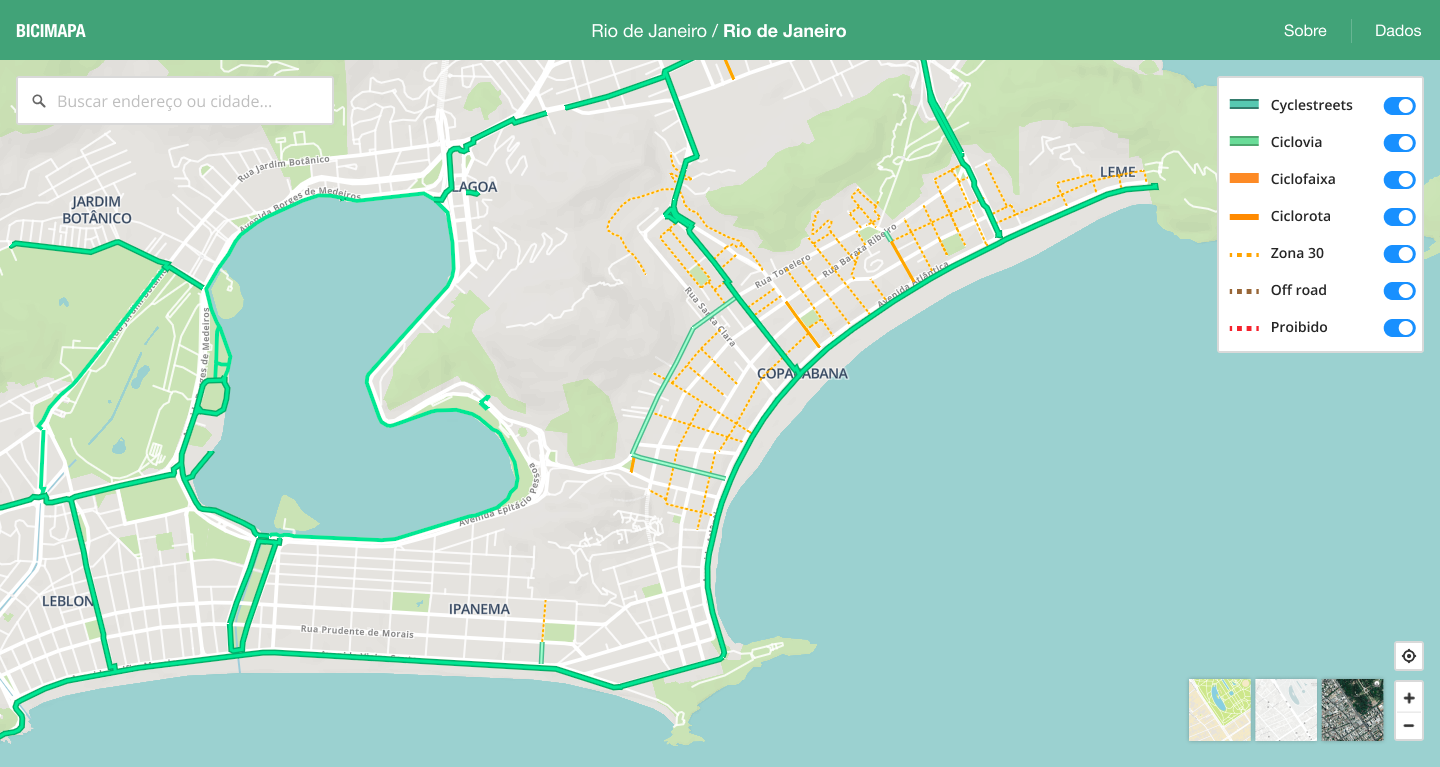
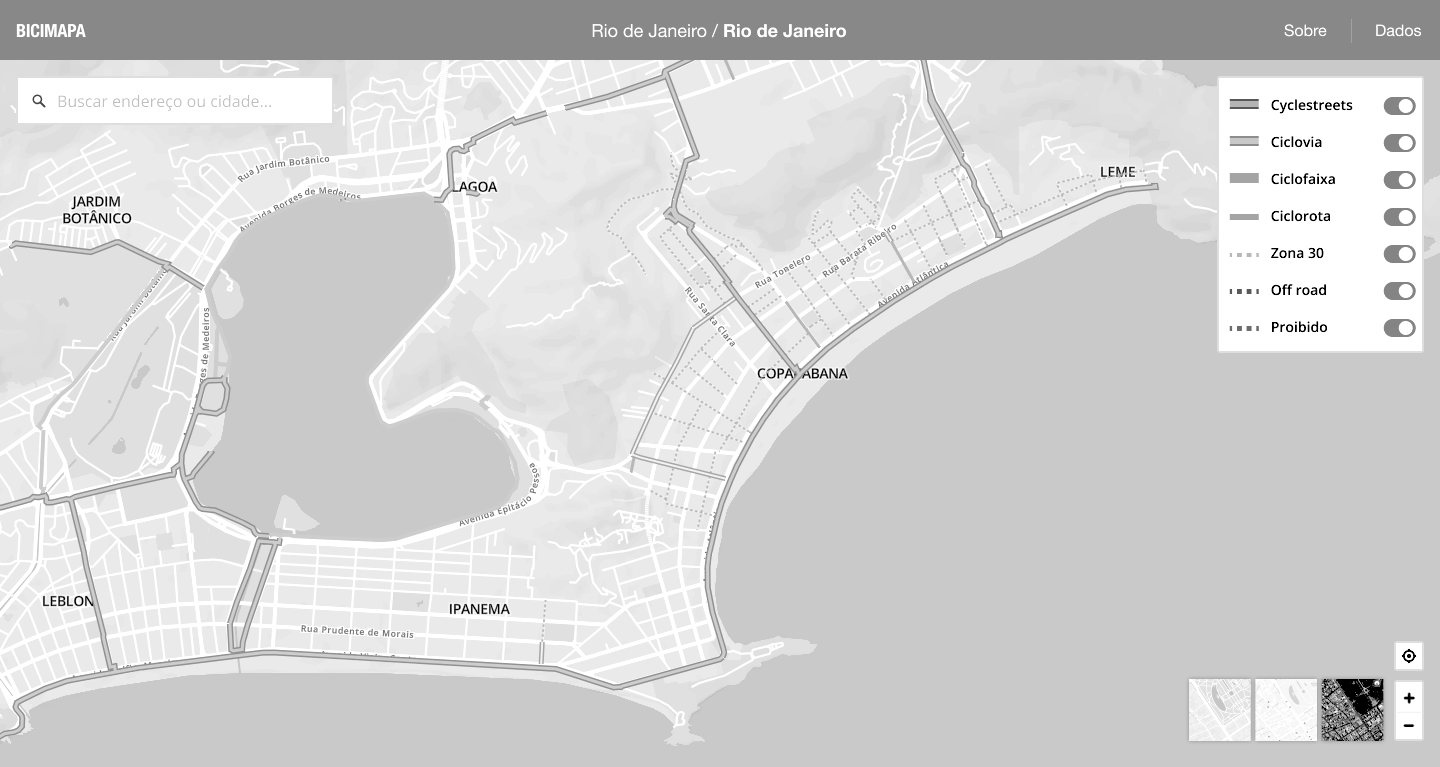
WIP

diff --git a/src/pages/ciclomapa/index.md b/src/pages/ciclomapa/index.md
@@ -5,16 +5,16 @@ date2: "Now"
 title: "CicloMapa"
 minibio: "An open platform to democratize access to bike maps of brazilian cities."
 description: "An open platform to democratize access to bike maps of brazilian cities, combining the collaborative power of OpenStreetMaps with web technologies and easy-to-use design."
-tags: ['design','front-end','product management','branding']
+tags: ['design','front-end','product management']
 cover: './cover.png'
 ---
 
 
 # Overview
 
-Today in Brazil we face a big challenge of not having data on the cycling infrastructure available in our cities. This makes it very hard to paint a clear picture of our reality and calculate the relevant metrics to measure the opportunities and impacts to society of improving urban mobility. The most common problems are data not being standardized, making it hard to compare between localities, data not being available publicly or sometimes it not existing at all.
+Today in Brazil we face a big challenge of not having data on the cycling infrastructure available in our cities. This makes it very hard to paint a clear picture of our reality and calculate the relevant metrics to measure the opportunities and impacts to society of improving urban mobility.
 
-I've teamed up with two important civil society organizations on cycling and urban mobility to design and developed the first cycling maps platform encompassing all Brazilian cities. We've leveraged the data and collaborativeness of OpenStreetMap (OSM), the Wikipedia of maps. I've created an open-source web application, free and accessible from any computer or smartphone, aimed at both the average citizen who wants to know more about their city, and researchers, who now have easy access to data without needing OSM knowledge.
+I've teamed up with two important brazilian civil society organizations on cycling and urban mobility to design and developed the first cycling maps platform encompassing all Brazilian cities. We've leveraged the data and collaborativeness of OpenStreetMap (OSM), the Wikipedia of maps. I've created an open-source web application, free and accessible from any computer or smartphone, aimed at both the average citizen who wants to know more about their city, and researchers, who now have easy access to data without needing OSM knowledge.
 
 The first version of this platform is already on production but we consider it to be a first prototype and we have lots of ideas to develop it even further in the future.
 
@@ -23,14 +23,14 @@ The first version of this platform is already on production but we consider it t
 
 ## Kick off
 
-UCB (Brazil Cyclists Union) and ITDP (Transport and Development Policy Institute) are two civil society organizations that have joined forces to solve once and for all the problem of access to data on Brazil's cycling infrastructure. As the main stakeholders of the project my first activity was conducting a workshop using the Lean Canvas framework so we could make sure we were aligned on what we were going to build.
+UCB (Brazil Cyclists Union) and ITDP (Transport and Development Policy Institute) are two civil society organizations that have joined forces to solve once and for all the problem of access to data on Brazil's cycling infrastructure. As the main stakeholders of the project my first activity was conducting a workshop using the Lean Canvas framework so we could make sure we were aligned on what we were going to build. Below I highlight some of the main insights.
 
 
 ```grid|1
 ![](./leancanvas.jpg)
 ```
-
-The main problems we wanted to solve was: 
+ 
+The main problems we wanted to solve were: 
 
 * The lack of centralized, standardized and updated bike maps of brazilian cities.
 * OpenStreetMaps contributors found disencouraging that there wasn't good applications that reuse its data.
@@ -44,7 +44,9 @@ Everything went well except the Customer Segments part, which was the most polem
 
 ## Research
 
-One of the first steps was to understand OSM data about cycling structures. Fortunately we had on the team a specialist on OSM, but still we had to go through lots of documentations and lengthy (but healthy) discussions on how we'd interpret them. The main thing is that OSM is very objective, and the way it tags its entities are quite granular and details. We, however, wanted to abstract all this complexity to the end users, while at the same time educating on how good the different types of cycling structures are to the cyclists.
+One of the first steps was to understand OSM data about cycling structures. Fortunately we had on the team a specialist on OSM, but still we had to go through lots of documentations and lengthy (but healthy) discussions on how we'd interpret them.
+
+The main challenge is that OSM is very objective: the way it tags entities is very detailed, granular and often technical. We, however, wanted to abstract this complexity to our end users, while at the same time educating on how good the different types of cycling structures are to the cyclists using a colored rank that went from green to red.
 
 ```grid|1
 ![](./layers.png "Documenting how the data would be modeled and the information would be shown to the users, including: labels, textual descriptions and visual representations of data. I find spreadsheets to be a very powerful prototyping tool that is often overlooked by designers.")
@@ -52,16 +54,27 @@ One of the first steps was to understand OSM data about cycling structures. Fort
 
 An important part at this step as well was to understand what other similar tools were available "on the market". I documented this on a simple Google Docs were I included main screenshots, a general and personal rating and some comments on the positives and negatives.
 
-At this step we validated that our solution was innovative, since there wasn't any other like this, but there were many intersections with existing tools.
+At this step we validated that our solution was innovative, since there wasn't any other like this, but there were many intersections with existing tools that gave us inspiration and new ideads to solve the problems.
 
-```grid|1
-![](./bench.png)
-```
+<jumbo caption="Documentation of the benchmark research looking for similar digital tools as well as official bike maps from cities around the world.">
+    <img src="./bench.png"/>
+</jumbo>
+ 
+
+Our main insights were:
+
+* Solutions based on OSM are very technical and hard to understand and operate, and none had clear instructions about the collaborativeness dimension and how to contribute with the mapping.
+* Bike maps rarely explain their terminologies.
+* When multiple typologies are offered colors are often random, producing a final result that is not only unappealing but, most importantly, confusing and overwhelming.
+* Almost none of them were responsive and accessible via smartphones.
+* Several local initiatives had interesting features but couldn't be easily reused for other cities.
 
 # Prototyping
 
+Extending the benchmarking research now I started looking at more broad inspirations of webapps that had some relation with maps or data visualization.
+
 ```grid|1
-![](./references.png "Research of visual references of webapps based on maps and data.")
+![](./references.png)
 ```
 
 With the references in mind and the typologies well defined I started sketching different ways we could lay out these feature in the screen. The concept always was to have the map as the main thing. Second came the current city in focus, and third the complementay UI elements to control the map such as typology filters, address search field, "about" link and the data download button.
@@ -71,7 +84,7 @@ With the references in mind and the typologies well defined I started sketching 
 ```
 
 
-# Executing
+# Implementing
 
 The entire development was done by me. It's always a challenge to separate the engineering and design mindsets in the process, so I forced myself to always ideate on Figma first, validating with the peers and only then creating cards on Trello to document the task and prioritize it.
 
@@ -85,26 +98,35 @@ The overall system architecture passed by 2 iterations. The first one, way simpl
 ![](./arch.png "Iterating on the system architecture.")
 ```
 
+To build the UI I chose the amazing [Ant Design](https://ant.design/) components, which was one of my main inspirations of Design Systems and I always wanted to try it in a real project. Their React components are super high quality and have great documentation.
 
-# Branding
+```grid|1
+![](./ant.png "Ant Design is a design system with values of Nature and Determinacy for better user experience of enterprise applications. (https://ant.design)")
+``` 
+ 
 
-With a very functional first version of the system up and running before the schedule I found myself with some extra time to MAKE IT POP. Based on all the process up to now I've devised some brand principles to start thinking on the more graphical part of the project so we could improve the presentation of this project:
+# (kind of) Branding
+
+With a very functional first version of the system up and running ahead of schedule I found myself with some extra time to MAKE IT POP. Based on all the process up to now I've devised some brand principles to start thinking on some visual directions:
 
 * It should be **serious**, not playful, since we're dealing with important data that can impact how our cities and built. But we're not formal or academic, we want to be **relatable**, so we can speak to the masses.
 * We're **assertive** and **trustworthy**: we're experienced specialists on cycling and technology.
 * **Collaborative**, **communal** and **educative**, since it's based on OpenStreetMaps.
 
-This helped me decide about the he color palette, typography and tone of the UX writing.
-
-
+The main colors are dark (heard of dark theme?), which give a "data dashboard" feeling. It also resembles the aerial look of a cityscape at night, with the bike paths lighten up as if they were neon lights. The color palette then discretisizes the gradient from green to red representing the safety and "goodness" of the different typologies.
 
 ```grid|1
-![](./final.png "Final version of the UI and map style, now with a present brand.")
+![](./brand.png)  
 ```
 
-```grid|1
-![](./mobile.png "Mobile flows with the final visual design.")
-```
+<jumbo caption="Final version of the UI and map style, now with a present brand.">
+    <img src="./final.png"/>
+</jumbo>
+
+<jumbo>
+    <img src="./mobile.png"/>
+</jumbo>
+
 
 
 # Promoting
@@ -124,11 +146,20 @@ Check below our full webinar, in Portuguese, with participation of the entire te
 
 With the current version in production we wanted to start gathering context to think about its future. We had some ideas in our mind but lots of people also came with others. Although we had a product vision of what the future could look like we didn't have a clear strategy of what should be focused first. So I've planned a research to interview users and other specialists all around Brazil to understand in more depth their needs and also get feedback about the product.
 
+<results-banner
+    data='{
+        "views since launch": "30,000+",
+        "unique users per month": "100+",
+        "brazilian cities viewed": "290"
+    }'>
+</results-banner>
+
 We've just finished this research, and our main conclusions have been:
-* A pesquisa validou que o CicloMapa é inovador (não tem paralelo claro com outra soluções já existentes de mercado) e traz valor para a comunidade por facilitar a visualização dos dados do OSM. 
-* Porém a ferramenta é vista como em estágio inicial, e tem um grande potencial inexplorado.
-Levantamos uma grande lista de sugestões de pequenas melhorias que ajudariam a "arredondar as arestas" e aumentar o impacto do produto. Também identificamos que podemos melhorar nossas ações de divulgação da ferramenta e de conhecimento através de tutoriais, eventos e articulações.
-* Não tivemos clareza de que funcionalidades mais custosas (ex. editor de infra cicloviária integrada à ferramenta) trariam um grande benefício, por enquanto. Também não há nenhuma indicação de que precisamos pivotar o produto (mudar de público-alvo ou de objetivos principais).
+* We validated is innovative, i.e. there isn't an alternative tool that does what we do, and that it already brings value to the community by facilitating the visualization and download of OSM data.
+* The tool, however, is considered to be in an early stage and has a big untapped potential. We gathered several suggestions of little improvements that would "round up the edges" and increase the impact of the product. We've also identified that we can improve our advertising of the app and OSM knowledge with tutorials, events and more partnerships with local organizations.
+* We still don't have clarity that more costly features (such as an interactive bike paths editor to manipulate OSM data) have better ROI than the already mentioned low-hanging fruits. Also there's no clear indicative that the product should be pivoted, like changing our Customer Segments or main objectives.
+
+This will help us to plan the next steps, which I'll update here as soon as we have news. :)
 
 
 
